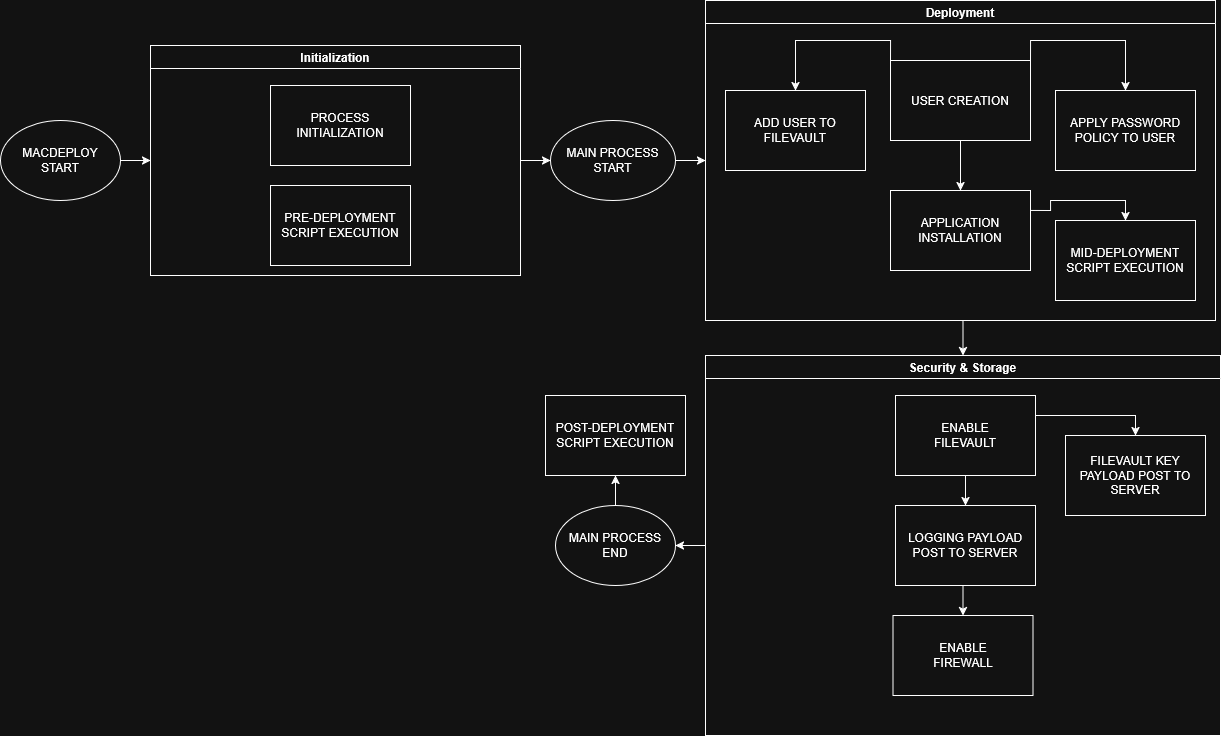
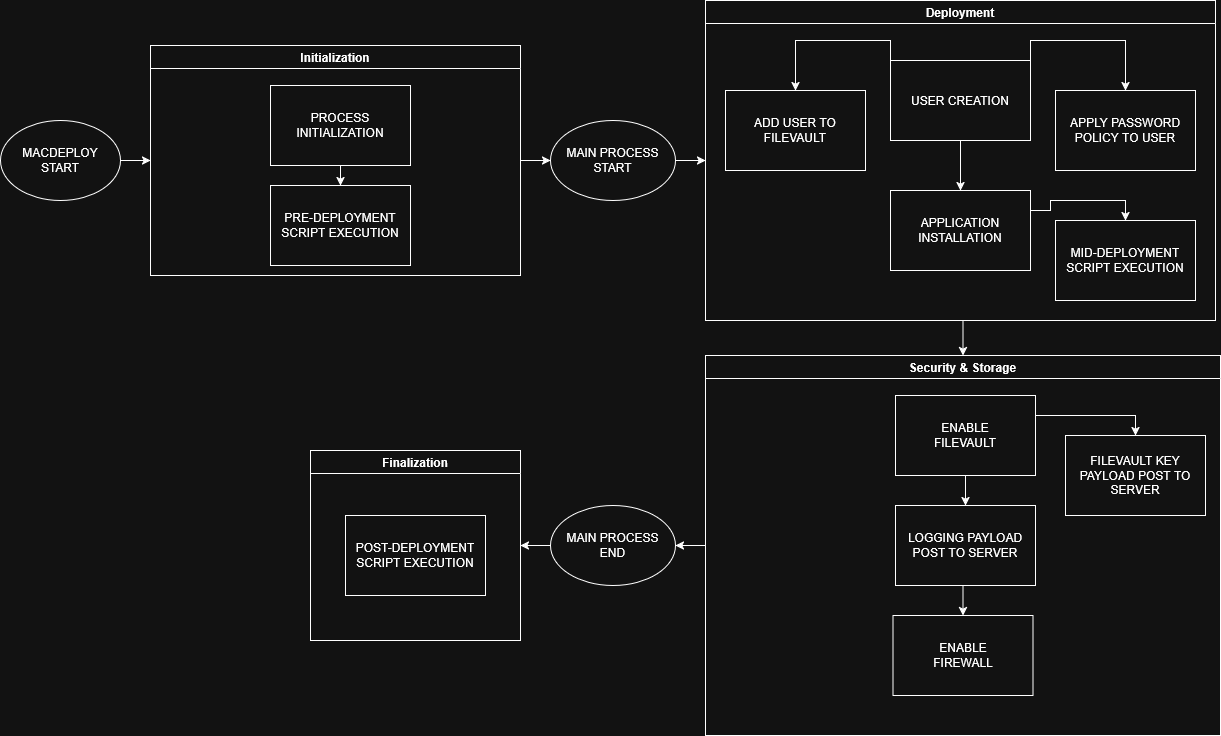
updated docs, updated diagram

diff --git a/README.md b/README.md
@@ -59,7 +59,7 @@ There is *no additional security* implemented to handle a public facing server.
 
 ## Workflow
 
-The general workflow of the program is divided into X parts:
+The general workflow of the program is divided into four groups:
 1. *Initialization*: Preparing the state of the program for deployment
 2. *Deployment*: The main automation process
 3. *Security & Storage*: FileVault, Firewall, and server-client communication for payloads
